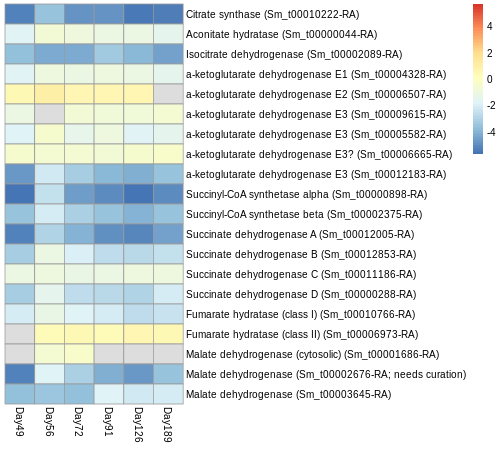
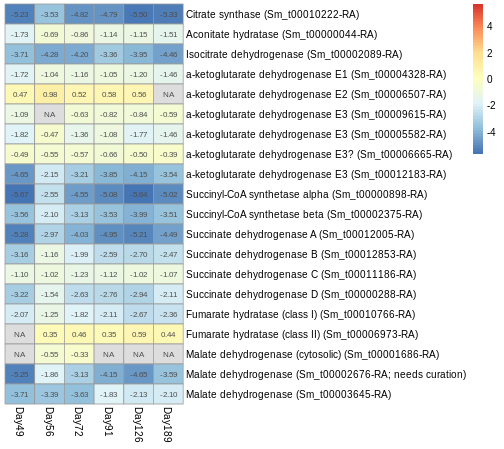
Add LFCs to TCA cycle heatmap

diff --git a/10_FinalResults/README.md b/10_FinalResults/README.md
@@ -181,6 +181,9 @@ Phosphoribulokinase (Sm_t00022457-RA) is only upregulated at 49d, but quite sign
 
 Sedoheptulose-1,7-bisphosphatase (Sm_t00001110-RA) is also upregulated and yet unique to the Calvin cycle
 
+_Note: Some of the a-ketoglutarate dehydrogenase E3 predictions may be dihydrolipoyl dehydrogenase
+(i.e. pyruvate dehydrogenase complex E3)_
+
 | R05 | GF04 |
 |-----|------|
 | ![R05_CalvinCycle](../08_GenesToLookFor/GeneChecks/CalvinCycle/CalvinCycle.R05.lfc0.png) | ![GF04_CalvinCycle](../08_GenesToLookFor/GeneChecks/CalvinCycle/CalvinCycle.GF04.lfc0.png) |
